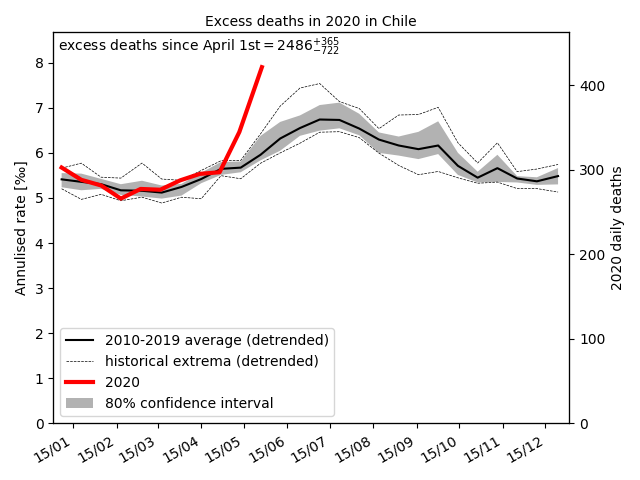
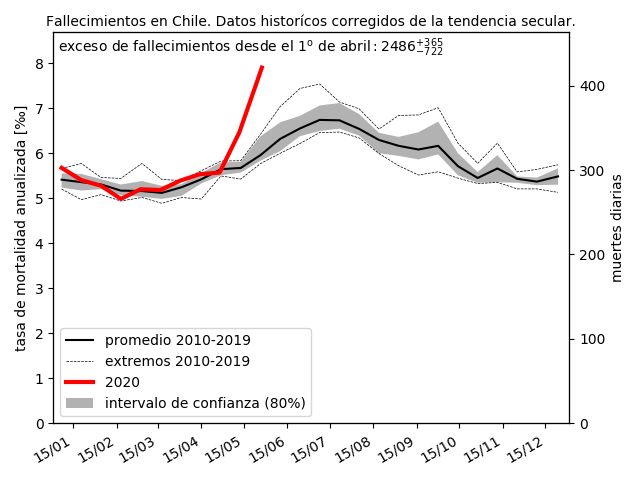
traducción

diff --git a/defunciones.py b/defunciones.py
@@ -117,12 +117,12 @@ def plot_vital(past, present,
     mini = m.min(axis=0) 
     plotdates = transpose_date(past_dates[0])
     ax.plot(plotdates, mean * rfact, 'k-', 
-            label='2010-2019 average (detrended)')
+            label='promedio 2010-2019')
     ax.fill_between(plotdates, mini * rfact, maxi * rfact, fc=(.4,.4,.4,.5),
-        label='80% confidence interval')
+        label='intervalo de confianza (80%)')
     ax.plot(plotdates, rfact * past_mortality.max(axis=0), 'k--', lw=.5)
     ax.plot(plotdates, rfact * past_mortality.min(axis=0), 'k--', lw=.5, 
-        label='historical extrema (detrended)')
+        label='extremos 2010-2019')
     year = dates[0].item().year
     plotdates = transpose_date(dates)
     ax.plot(plotdates, mortality * 365/1000, 'r-', lw=3, label=str(year))
@@ -133,21 +133,21 @@ def plot_vital(past, present,
     ax.set_ylim(0, 1.1 * max_mortality * 365/1000)
     ymax = ax.get_ylim()[1]
     ax.set_xlim(np.datetime64('2020-01-01'), np.datetime64('2021-01-01'))
-    ax.set_ylabel('Annulised rate [‰]')
+    ax.set_ylabel('tasa de mortalidad anualizada [‰]')
     ax2 = ax.twinx()
     ax2.set_ylim(0, ymax * 1000 / 365 * POPULATION[2020])
-    ax2.set_ylabel('2020 daily {}s'.format(vital))
+    ax2.set_ylabel('muertes diarias'.format(vital))
     ax3 = ax.twiny()
     ax3.set_xticks([])
-    ax3.set_xlabel('Excess {}s in 2020 in Chile'.format(vital))
+    ax3.set_xlabel('Fallecimientos en Chile. Datos históricos corregidos de la tendencia secular.'.format(vital))
     if plotexcess:
         keep = np.argwhere(dates >= np.datetime64('2020-04-01'))[:,0]
         fact = binwidths[keep] * POPULATION[2020]
         excess = np.sum((mortality[keep] - mean[keep]) * fact)
         errinf = np.sum((maxi[keep] - mean[keep]) * fact)
         errsup = np.sum((mean[keep] - mini[keep]) * fact)
-        what = 'excess\\ {}s\\ since\\ April\\ 1st'.format(vital)
-        FMT = '$\\mathrm{{{}}} = {:.0f}^{{{:+.0f}}}_{{{:+.0f}}}$'
+        what = 'exceso\\ de\\ fallecimientos\\ desde\\ el\\ 1^o\\ de\\ abril'
+        FMT = '$\\mathrm{{{}}}: {:.0f}^{{{:+.0f}}}_{{{:+.0f}}}$'
         ax.text(0.01, 0.99, FMT.format(what, excess, errsup, -errinf), va='top',
             transform=ax.transAxes)
     fig.autofmt_xdate()
